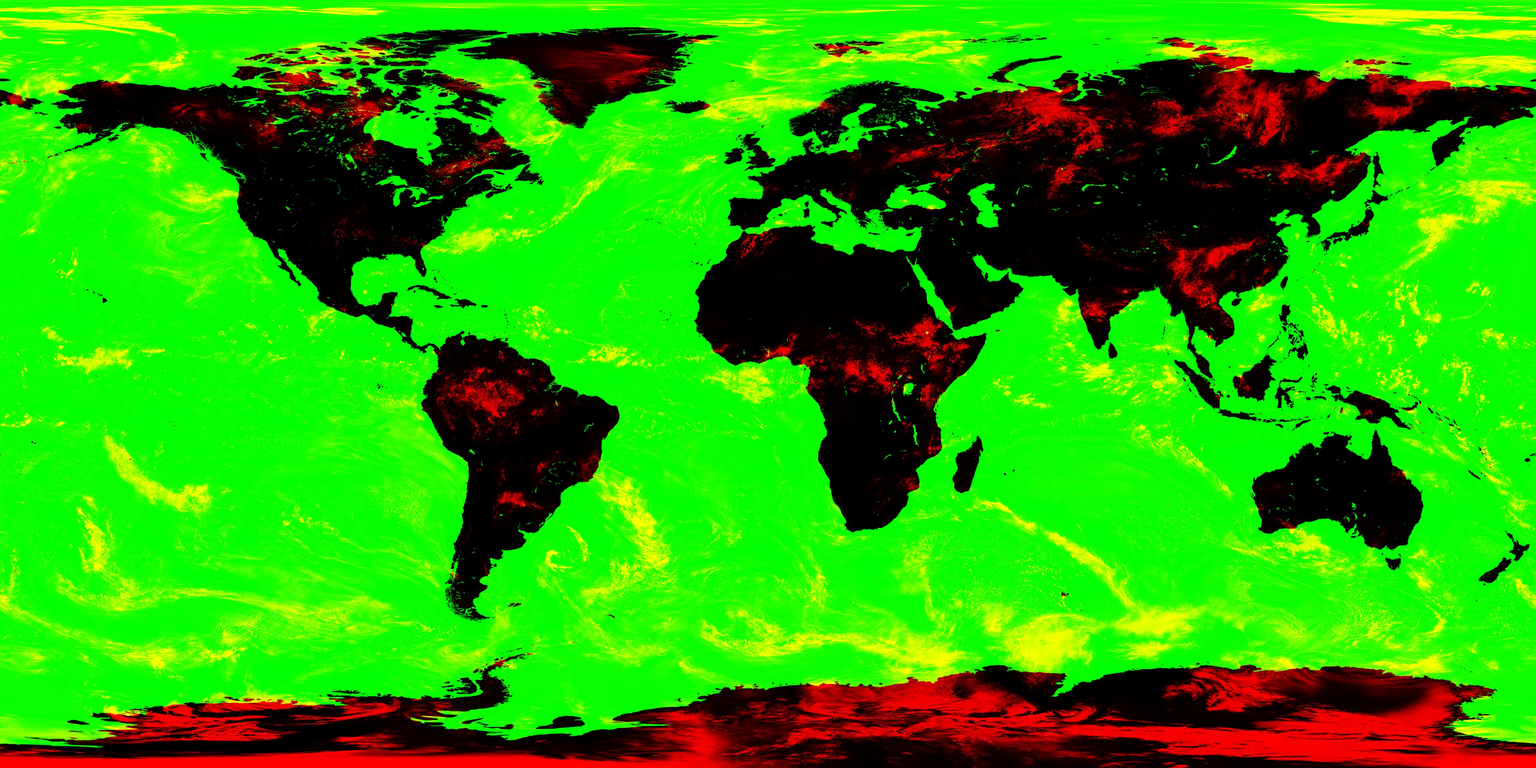
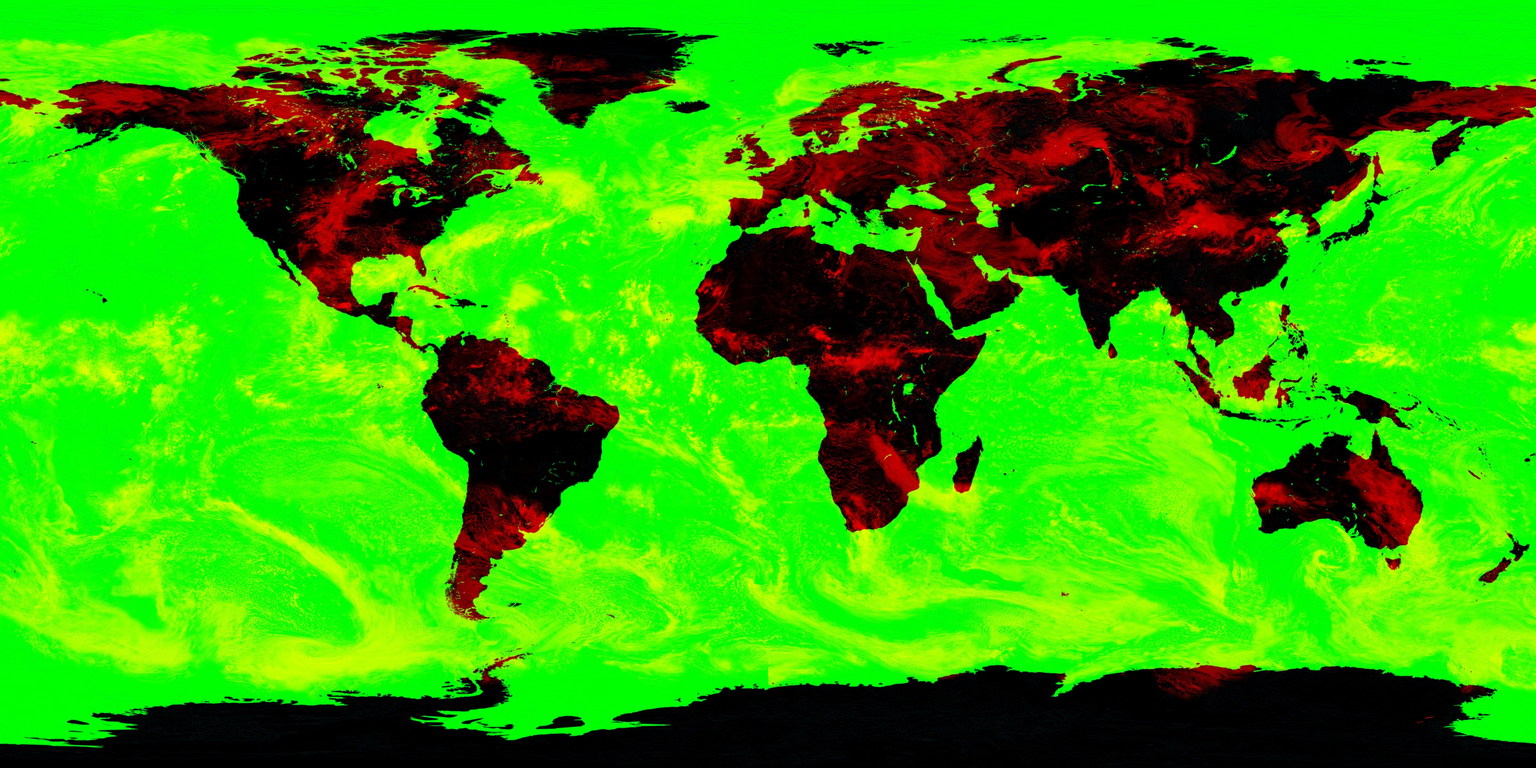
Network-first service worker so updates always load; user-supplied 8K cloud map; real terrain height (true scale) for ground level and slope lighting

diff --git a/js/earth.js b/js/earth.js
@@ -21,7 +21,7 @@ export function makeEarth() {
   const tex = (f, srgb) => { f = big ? f.replace('.jpg', '-8k.jpg') : f; if (TEX[f]) return TEX[f]; const t = L.load(f); t.colorSpace = THREE.NoColorSpace; t.wrapS = THREE.RepeatWrapping; t.anisotropy = 8; t.minFilter = THREE.LinearMipmapLinearFilter; return (TEX[f] = t); };
   const aur = new THREE.DataTexture(new Uint8Array(360 * 181), 360, 181, THREE.RedFormat); aur.wrapS = THREE.RepeatWrapping; aur.magFilter = aur.minFilter = THREE.LinearFilter; aur.needsUpdate = true;
   const U = {
-    uDay: { value: tex('data/earth-day.jpg') }, uNight: { value: tex('data/earth-lights.jpg') }, uAux: { value: tex('data/earth-aux.jpg') },
+    uDay: { value: tex('data/earth-day.jpg') }, uNight: { value: tex('data/earth-lights.jpg') }, uAux: { value: tex('data/earth-aux.jpg') }, uHgt: { value: tex('data/earth-height.png') },
     uAur: { value: aur }, uAurOn: { value: 1 }, uKp: { value: 3 }, uMagAxis: { value: new THREE.Vector3(0, 0, 1) },
     uCam: { value: new THREE.Vector3() }, uInvPV: { value: new THREE.Matrix4() }, uSun: { value: new THREE.Vector3(1, 0, 0) }, uMoon: { value: new THREE.Vector3(0, 1, 0) },
     uSunE: { value: 1.27e5 }, uMoonE: { value: 0.1 }, uMoonTint: { value: new THREE.Vector3(1, 1, 1) }, uMoonP: { value: new THREE.Vector3(0, 384000, 0) }, uSunDist: { value: 1.496e8 }, uEclOn: { value: 0 }, uG: { value: 0 }, uExposure: { value: 1e-4 }, uTime: { value: 0 }, uSteps: { value: 14 },
@@ -35,7 +35,7 @@ export function makeEarth() {
       precision highp float;
       #define PI 3.14159265
       in vec3 vRay;
-      uniform sampler2D uDay, uNight, uAux, uAur; uniform float uAurOn, uKp; uniform vec3 uMagAxis;
+      uniform sampler2D uDay, uNight, uAux, uAur, uHgt; uniform float uAurOn, uKp; uniform vec3 uMagAxis;
       uniform vec3 uCam, uSun, uMoon, uMoonTint, uMoonP; uniform float uSunE, uMoonE, uG, uExposure, uTime, uSteps, uSunDist, uEclOn;
       vec3 mE;   // moonlight (lux), dimmed and faintly reddened during a lunar eclipse
       const float R = 6371.0, RT = 6471.0, HR = 8.0, HM = 1.2;
@@ -76,6 +76,7 @@ export function makeEarth() {
         return clamp(1.0 - (a1 + r2*r2*a2 - 0.5*k)/PI, 0.0, 1.0);
       }
       vec3 sunTS(vec3 p){ return sunT(p, uSun)*solarVis(p); }
+      const float HTM = 6.35;   // km at height-map value 1.0 (24.9 m per grey level, checked against known summits)
       vec2 llUV(vec3 n){   // TEME surface normal -> texture uv (rotating Earth)
         float c = cos(uG), s = sin(uG);
         vec3 e = vec3(c*n.x + s*n.y, -s*n.x + c*n.y, n.z);
@@ -92,6 +93,12 @@ export function makeEarth() {
         mE = uMoonE*uMoonTint;
         vec2 ta = sph(o, d, RT), tg = sph(o, d, R);
         bool ground = tg.x > 0.0 && tg.x < 1e8;
+        // terrain: the ground is at its real height (height map: 0 = sea level, 1 = 6.35 km, true scale), found by a
+        // few steps along the ray; the air path and the sunlight then end at the real ground
+        if (ground) for (int k = 0; k < 3; k++) {
+          float hh = textureLod(uHgt, llUV(normalize(o + d*tg.x)), 1.0).r*HTM;
+          vec2 tt = sph(o, d, R + hh); if (tt.x > 0.0 && tt.x < 1e8) tg.x = tt.x;
+        }
         if (ta.y <= 0.0 || ta.x > 1e8) { gl_FragColor = vec4(0.0); return; }
         float t0 = max(ta.x, 0.0), t1 = ground ? tg.x : ta.y;
         float cs = dot(d, uSun), cmn = dot(d, uMoon);
@@ -209,9 +216,19 @@ export function makeEarth() {
           float cl = smoothstep(0.18, 0.75, textureGrad(uAux, uvc, gx, gy).r);
           vec3 ps = p + uSun*(8.0/max(mus, 0.08)); float sh = smoothstep(0.18, 0.75, texture(uAux, llUV(normalize(ps))).r);
           vec3 Edir = uSunE*Tsun*max(mus, 0.0) + mE*Tmoon*max(mum, 0.0);
+          // the land's own slopes (from the height map, true scale) shade it; clouds, sea and glint keep the smooth sphere
+          vec3 nG = n;
+          {
+            vec3 ea = normalize(cross(vec3(0.0, 0.0, 1.0), n)), no = cross(n, ea); float dx = 10.0;
+            float he = textureGrad(uHgt, llUV(normalize(p + ea*dx)), gx, gy).r, hw = textureGrad(uHgt, llUV(normalize(p - ea*dx)), gx, gy).r;
+            float hn = textureGrad(uHgt, llUV(normalize(p + no*dx)), gx, gy).r, hs = textureGrad(uHgt, llUV(normalize(p - no*dx)), gx, gy).r;
+            nG = normalize(n - ea*(he - hw)*HTM/(2.0*dx) - no*(hn - hs)*HTM/(2.0*dx));
+            nG = normalize(mix(nG, n, water));
+          }
+          vec3 EdirG = uSunE*Tsun*max(dot(nG, uSun), 0.0) + mE*Tmoon*max(dot(nG, uMoon), 0.0);
           float sv = solarVis(p + n*0.05);   // skylight follows the eclipse too
           vec3 sky = (uSunE*smoothstep(-0.2, 0.3, mus)*vec3(0.12, 0.16, 0.25)*min(sv, 1.0)*(mus < 0.0 ? pow(10.0, 0.4*asin(mus)*57.29578) : 1.0) + mE*smoothstep(-0.2, 0.3, mum)*vec3(0.12, 0.16, 0.25))*0.25;   // skylight
-          vec3 surf = alb/PI*(Edir*(1.0 - 0.65*sh) + sky);
+          vec3 surf = alb/PI*(EdirG*(1.0 - 0.65*sh) + sky);
           // ocean: darker, with the Sun's glint spread by wave slopes (Cox-Munk, ~6 m/s wind)
           if (water > 0.01) {
             vec3 hv = normalize(uSun - d); float nh = max(dot(n, hv), 1e-3), tan2 = (1.0 - nh*nh)/(nh*nh);

diff --git a/sw.js b/sw.js
@@ -1,17 +1,18 @@
-// Offline support: app files cached (bump APP when they change); orbital data always tried from the network first.
-const APP = 'umbra-app-v27', DATA = 'umbra-data';
+// Offline support: everything is fetched from the network first and saved; the saved copy is used when offline.
+const APP = 'umbra-app-v28', DATA = 'umbra-data';
 const FILES = ['./', 'index.html', 'css/app.css', 'manifest.webmanifest', 'js/main.js', 'js/catalog.js', 'js/tracker.js', 'js/worker.js', 'js/sgp.js', 'js/frames.js', 'js/light.js', 'js/sight.js', 'js/shapes.js', 'js/purpose.js',
   'js/models3d.js', 'js/groundview.js', 'js/spaceview.js', 'js/orbitview.js', 'js/earth.js', 'js/sky.js', 'js/glsl.js', 'js/astro.js', 'js/post.js', 'js/clock.js', 'js/planets.js', 'js/eclipse.js',
   'vendor/three.module.min.js', 'vendor/satellite.min.js', 'vendor/astronomy.browser.min.js', 'vendor/leaflet/leaflet.js', 'vendor/leaflet/leaflet.css',
   'data/stars.json', 'data/stars8.bin', 'data/constlines.json', 'data/milkyway.jpg', 'data/moon.jpg', 'data/earth-day.jpg', 'data/earth-lights.jpg', 'data/earth-aux.jpg', 'data/sun-map.png'];
 self.addEventListener('install', e => { e.waitUntil(caches.open(APP).then(c => c.addAll(FILES.map(f => new Request(f, { cache: 'reload' })))).then(() => self.skipWaiting())); });
 self.addEventListener('activate', e => { e.waitUntil(caches.keys().then(k => Promise.all(k.filter(n => n.startsWith('umbra-app') && n !== APP).map(n => caches.delete(n)))).then(() => self.clients.claim())); });
+// Network first for everything (the browser's own HTTP cache makes unchanged files cheap to re-check), so a new
+// version always shows on the next load; the saved copies are only used offline. (Cache-first kept old files around
+// indefinitely, e.g. the large Earth maps, which were never cleared by a version bump.)
 self.addEventListener('fetch', e => {
   const u = new URL(e.request.url);
-  if (u.origin !== location.origin) return;
-  if (u.pathname.endsWith('/data/catalog.json')) {   // network first, cached copy when offline
-    e.respondWith(fetch(e.request).then(r => { if (r.ok && e.request.method === 'GET') { const c = r.clone(); caches.open(DATA).then(x => x.put(e.request, c)); } return r; }).catch(() => caches.match(e.request)));
-    return;
-  }
-  e.respondWith(caches.match(e.request, { ignoreSearch: true }).then(r => r || fetch(e.request).then(res => { if (res.ok && /\/data\/(gaia|earth-.*-8k)/.test(u.pathname)) { const c = res.clone(); caches.open(DATA).then(x => x.put(e.request, c)); } return res; })));
+  if (u.origin !== location.origin || e.request.method !== 'GET') return;
+  const store = /\/data\/(gaia|earth-|catalog)/.test(u.pathname) ? DATA : APP;
+  e.respondWith(fetch(e.request).then(r => { if (r.ok) { const c = r.clone(); caches.open(store).then(x => x.put(e.request, c)); } return r; })
+    .catch(() => caches.match(e.request, { ignoreSearch: true })));
 });

diff --git a/tools/cloudmap.py b/tools/cloudmap.py
@@ -1,0 +1,21 @@
+"""Put a cloud map (grey: black = clear, white = cloud) into the cloud channel (R) of data/earth-aux-8k.jpg and
+data/earth-aux.jpg, keeping the water mask (G) and the third channel. The shader reads clouds as
+smoothstep(0.18, 0.75, R), so the map's grey levels are used as they are.
+Usage: python tools/cloudmap.py D:/Earth-Cloud-Map-8k.png
+To go back to the previous clouds: copy .raw/earth-aux*-prev.jpg over data/.
+"""
+from PIL import Image
+import numpy as np, os, sys, shutil
+
+Image.MAX_IMAGE_PIXELS = None
+ROOT = os.path.join(os.path.dirname(__file__), '..')
+src = Image.open(sys.argv[1]).convert('L')
+for name, size in [('earth-aux-8k.jpg', (8192, 4096)), ('earth-aux.jpg', (4096, 2048))]:
+    p = os.path.join(ROOT, 'data', name)
+    keep = os.path.join(ROOT, '.raw', name.replace('.jpg', '-prev.jpg'))
+    if not os.path.exists(keep):
+        shutil.copy(p, keep)
+    aux = np.asarray(Image.open(p).convert('RGB')).copy()
+    aux[:, :, 0] = np.asarray(src.resize(size, Image.LANCZOS))
+    Image.fromarray(aux).save(p, quality=92)
+    print(name, os.path.getsize(p) // 1024, 'KB')
